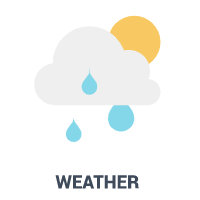
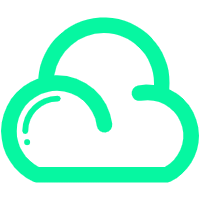
页面天气状态样式优化

diff --git a/src/layout/main.vue b/src/layout/main.vue
@@ -27,21 +27,21 @@
         <div class="header-weather">
           <img :src="require('@/assets/weather.png')" alt="" />
           <div class="flex-column">
-            <div>
-              <h2>{{ state.weatherData.temperature }}</h2>
+            <div class="top">
+              <span>{{ state.weatherData.temperature }}</span>
               <span>℃</span>
             </div>
-            <span>晴</span>
+            <span class="bottom">{{ state.weatherData.weather }}</span>
           </div>
         </div>
       </div>
       <div class="header-right">
         <div class="flex-column">
-          <span> 天气 </span>
-          <span> 切换 </span>
+          <span> 模型 </span>
+          <span> 状态 </span>
         </div>
-
-        <img
+        <div class="mesh-weather">昼</div>
+        <!-- <img
           @click="changeState"
           :src="
             state.meshState === 0
@@ -49,10 +49,10 @@
               : require('@/assets/moon.png')
           "
           alt=""
-        />
+        /> -->
         <div class="header-time">
           <span>{{ moment(state.time).format("HH:mm:ss") }}</span>
-          <span>{{ moment(state.time).format("YYYY/MM/DD") }} 年月日</span>
+          <span>{{ moment(state.time).format("YYYY/MM/DD") }} | 年月日</span>
         </div>
       </div>
     </div>
@@ -124,7 +124,7 @@ export default defineComponent({
   font-family: "colfont";
   src: url("../font/Coalition-v2-1.ttf");
   font-family: "elefont";
-  src: url("../font/ele.ttf");
+  src: url("../font/myfont.ttf");
 }
 .container {
   padding: 0;
@@ -160,22 +160,24 @@ export default defineComponent({
       margin-right: 16px;
       .flex-column {
         margin-left: 16px;
-        h2 {
-          display: inline;
-          margin: 0;
-          font-size: 32px;
-          font-family: elefont;
-          line-height: 28px;
-        }
         span {
-          font-size: 16px;
+          &:nth-child(1) {
+            font-size: 28px;
+            line-height: 28px;
+          }
+          font-size: 14px;
+          line-height: 20px;
           text-align: left;
+        }
+        .bottom {
+          line-height: 12px;
+          font-size: 12px;
+          color: rgba(255, 255, 255, 0.6);
         }
       }
       img {
-        width: 60px;
-        border: 1px solid rgba(24, 254, 254);
-        background-color: rgb(255, 94, 44);
+        width: 44px;
+        border: 3px solid #06f7a1;
         padding: 4px;
       }
     }
@@ -210,24 +212,45 @@ export default defineComponent({
       margin-right: 16px;
       align-items: flex-end;
       span {
-        text-align: center;
-        width: 140px;
+        text-align: left;
+        width: 130px;
         &:nth-child(1) {
           font-size: 32px;
           font-weight: 600;
-          letter-spacing: 5px;
+          letter-spacing: 4px;
           line-height: 34px;
           font-family: elefont;
         }
         &:nth-child(2) {
           font-size: 14px;
-          letter-spacing: 1px;
+          letter-spacing: 0px;
         }
       }
     }
-    img {
-      height: 40px;
-      margin: 0 16px 0 8px;
+    .flex-column {
+      border: 3px solid #06f7a1;
+      border-right: 0;
+      border-left: 0;
+      width: 42px;
+      height: 42px;
+      letter-spacing: 4px;
+      align-items: center;
+      padding-top: 4px;
+      span {
+        line-height: 16px;
+      }
+    }
+    .mesh-weather {
+      // border: 2px solid rgb(0, 255, 191);
+      width: 42px;
+      line-height: 38px;
+      height: 42px;
+      margin: 0 16px 0 0;
+      font-size: 14px;
+      border: 3px solid #06f7a1;
+      border-left: 0;
+      background-color: rgba(0, 0, 0, 0.1);
+      color: rgb(236, 236, 236);
       &:hover {
         cursor: pointer;
       }

diff --git a/src/views/main/components/loading.vue b/src/views/main/components/loading.vue
@@ -32,7 +32,7 @@
       <a-progress
         :stroke-color="{
           '0%': 'rgba(0, 20, 29, 0.5)',
-          '100%': 'rgb(10,240,250)'
+          '100%': 'rgb(10,240,250)',
         }"
         :success="{ strokeColor: 'rgb(10,240,250)' }"
         :percent="prop.loading"
@@ -41,25 +41,25 @@
   </div>
 </template>
 <script lang="ts">
-import { defineComponent, reactive } from 'vue'
-import { RadarChartOutlined } from '@ant-design/icons-vue'
+import { defineComponent, reactive, watch } from "vue";
+import { RadarChartOutlined } from "@ant-design/icons-vue";
 export default defineComponent({
   components: {
-    RadarChartOutlined
+    RadarChartOutlined,
   },
   props: {
     loading: {
       type: Number,
-      default: 0
-    }
+      default: 0,
+    },
   },
   setup(props) {
-    const prop = reactive<any>(props)
+    const prop = reactive<any>(props);
     return {
-      prop
-    }
-  }
-})
+      prop,
+    };
+  },
+});
 </script>
 <style lang="scss" scoped>
 .loading {
@@ -83,7 +83,7 @@ export default defineComponent({
     align-items: flex-end;
     justify-content: flex-end;
     font-size: 62px;
-    color: rgb(255,255,255);
+    color: rgb(255, 255, 255);
   }
   .loading-textarea {
     text-align: left;
